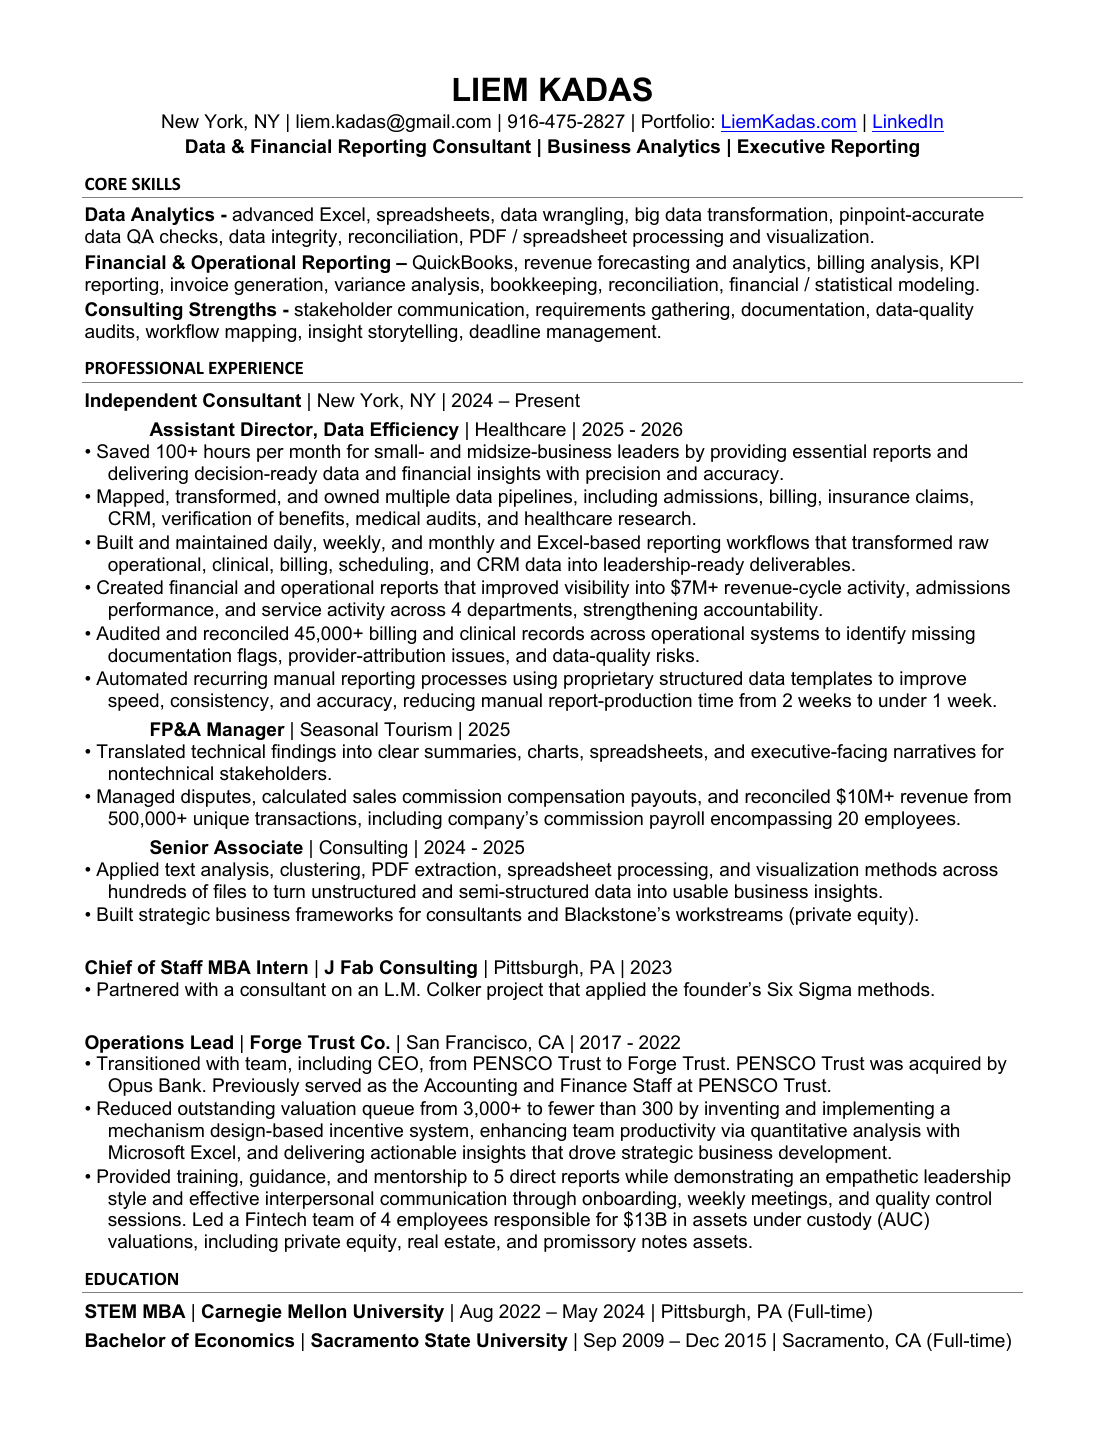
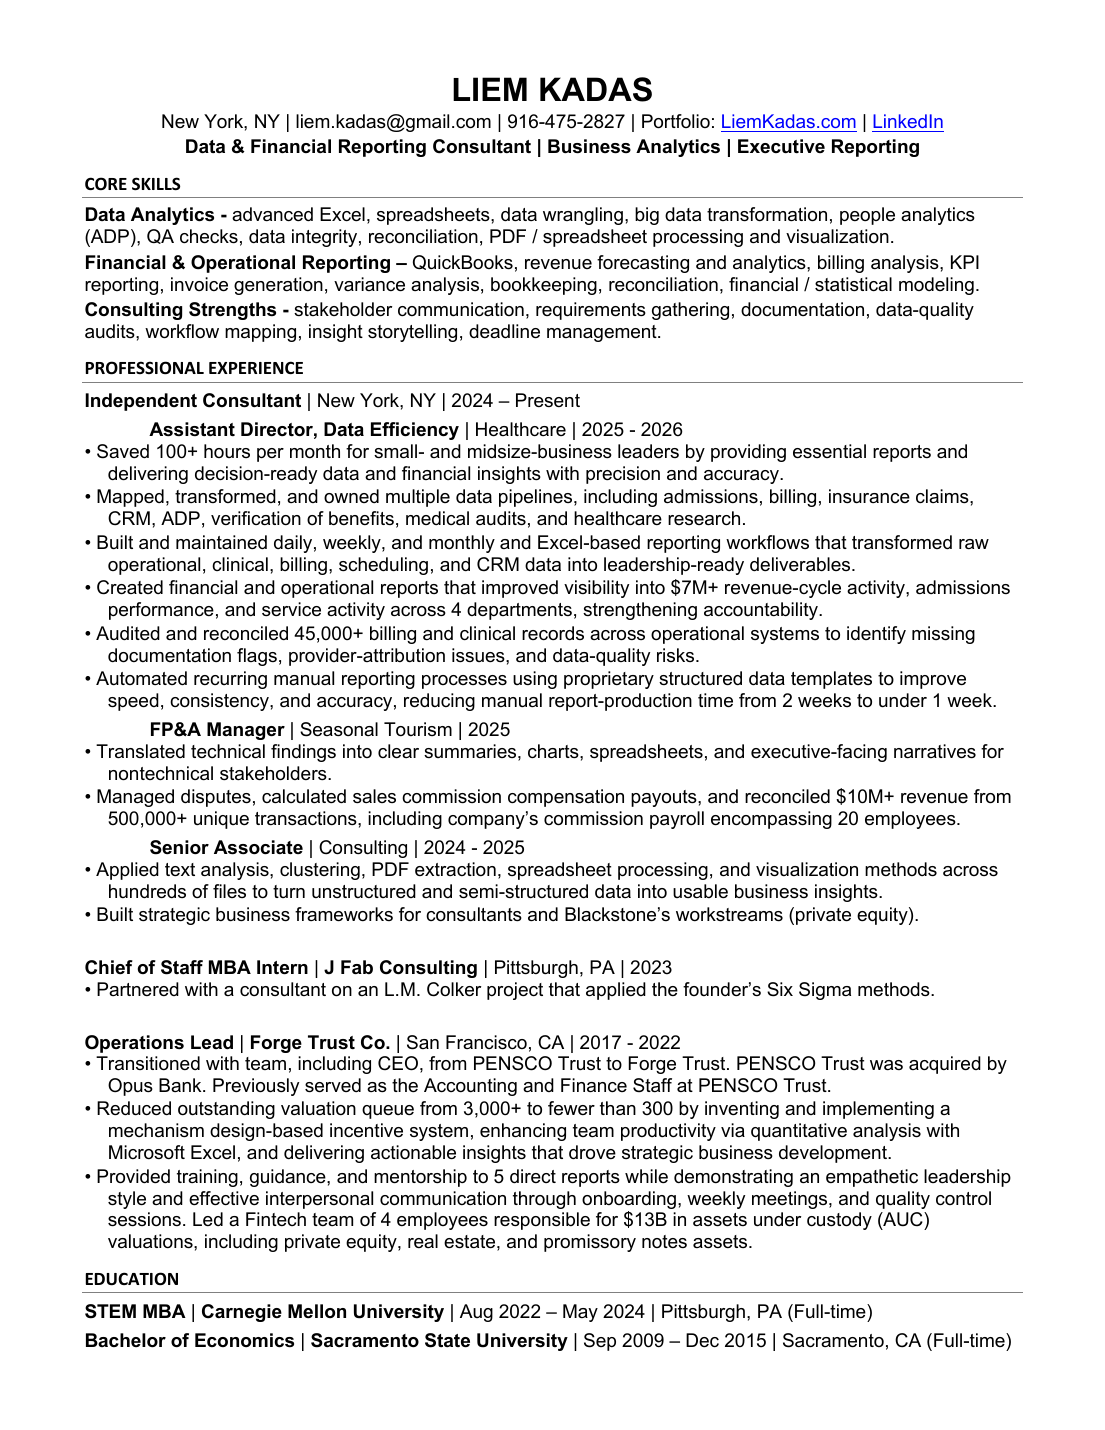
Update resume content

Changed region(s): [[0.0615, 0.1231, 0.8923, 0.1846], [0.1538, 0.3385, 0.6462, 0.3692]]

diff --git a/site-data.js b/site-data.js
@@ -119,9 +119,9 @@ window.siteData = {
     title: "Liem's Resume",
     description:
       "A concise view of my professional background, operating experience, and data-focused service profile.",
-    pdf: "assets/pdfs/liem-kadas-resume.pdf?v=20260806-2",
-    preview: "assets/previews/resume.png?v=20260806-2",
-    pages: ["assets/pdf-pages/resume-20260708/page-1.png?v=20260806-2"],
+    pdf: "assets/pdfs/liem-kadas-resume.pdf?v=20260806-3",
+    preview: "assets/previews/resume.png?v=20260806-3",
+    pages: ["assets/pdf-pages/resume-20260708/page-1.png?v=20260806-3"],
     button: "Open Resume",
     accent: "blue",
   },

diff --git a/index.html b/index.html
@@ -216,7 +216,7 @@
       </div>
     </div>
 
-    <script src="site-data.js?v=20260806-2"></script>
+    <script src="site-data.js?v=20260806-3"></script>
     <script src="script.js?v=20260716-2"></script>
   </body>
 </html>
